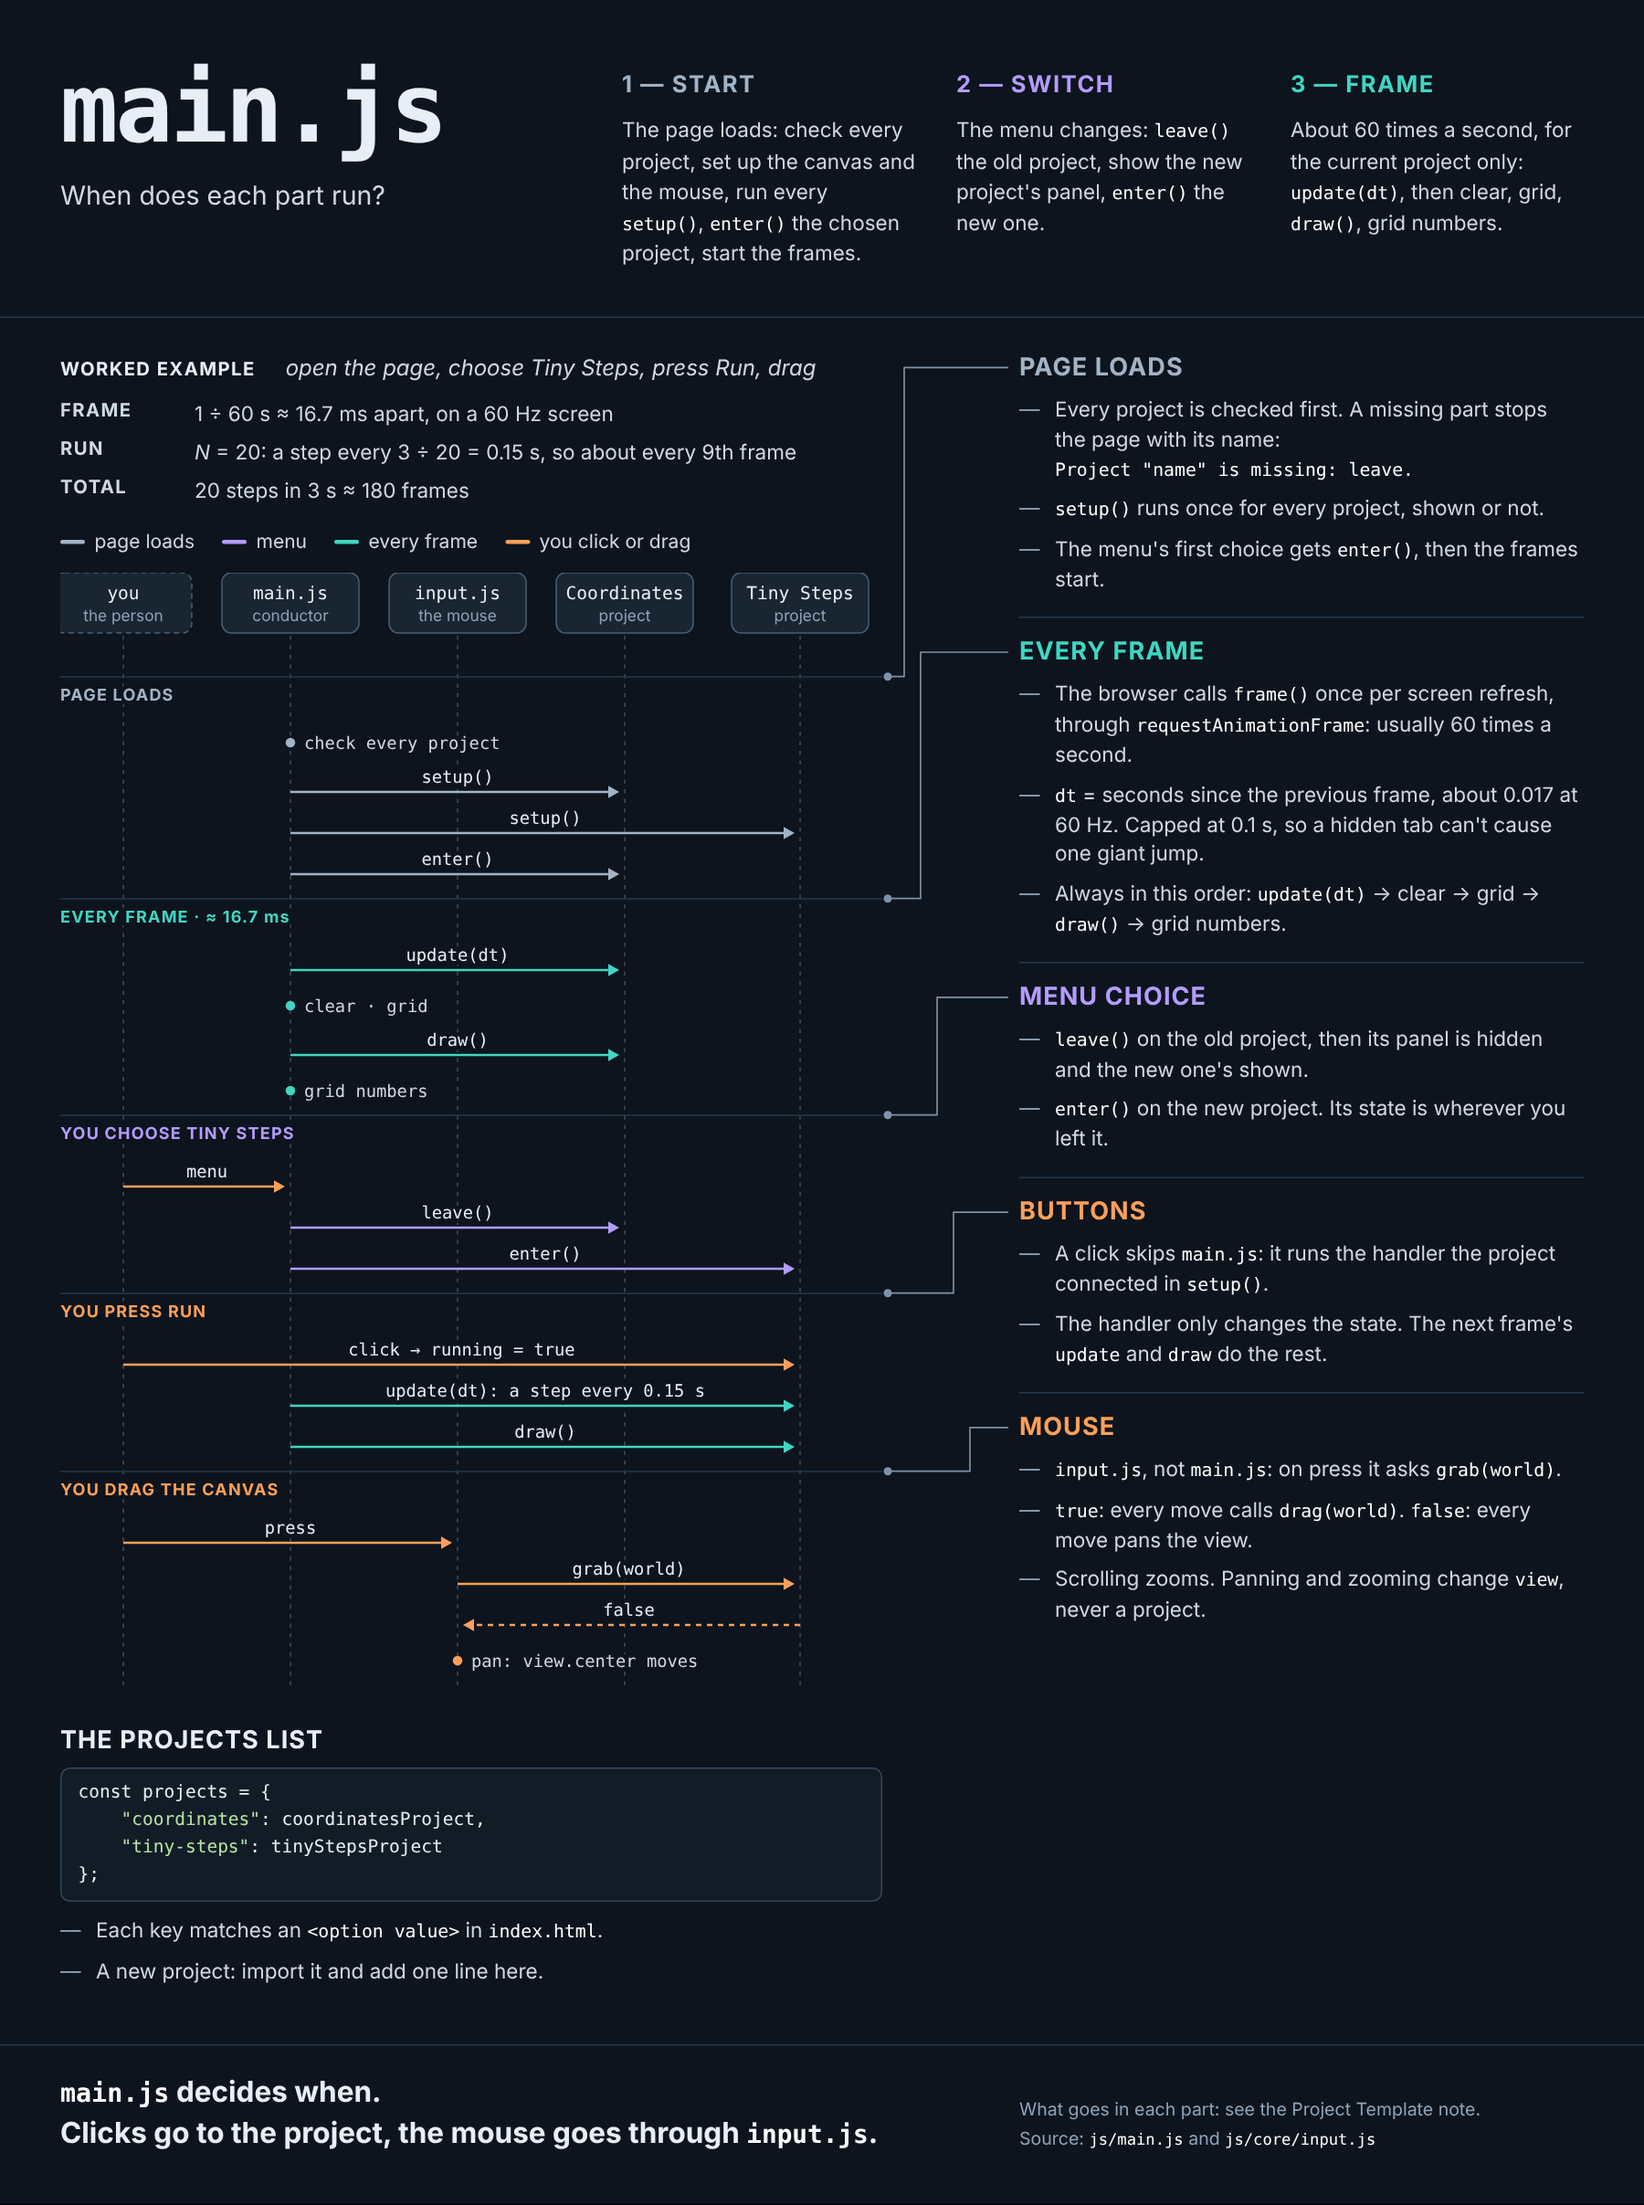
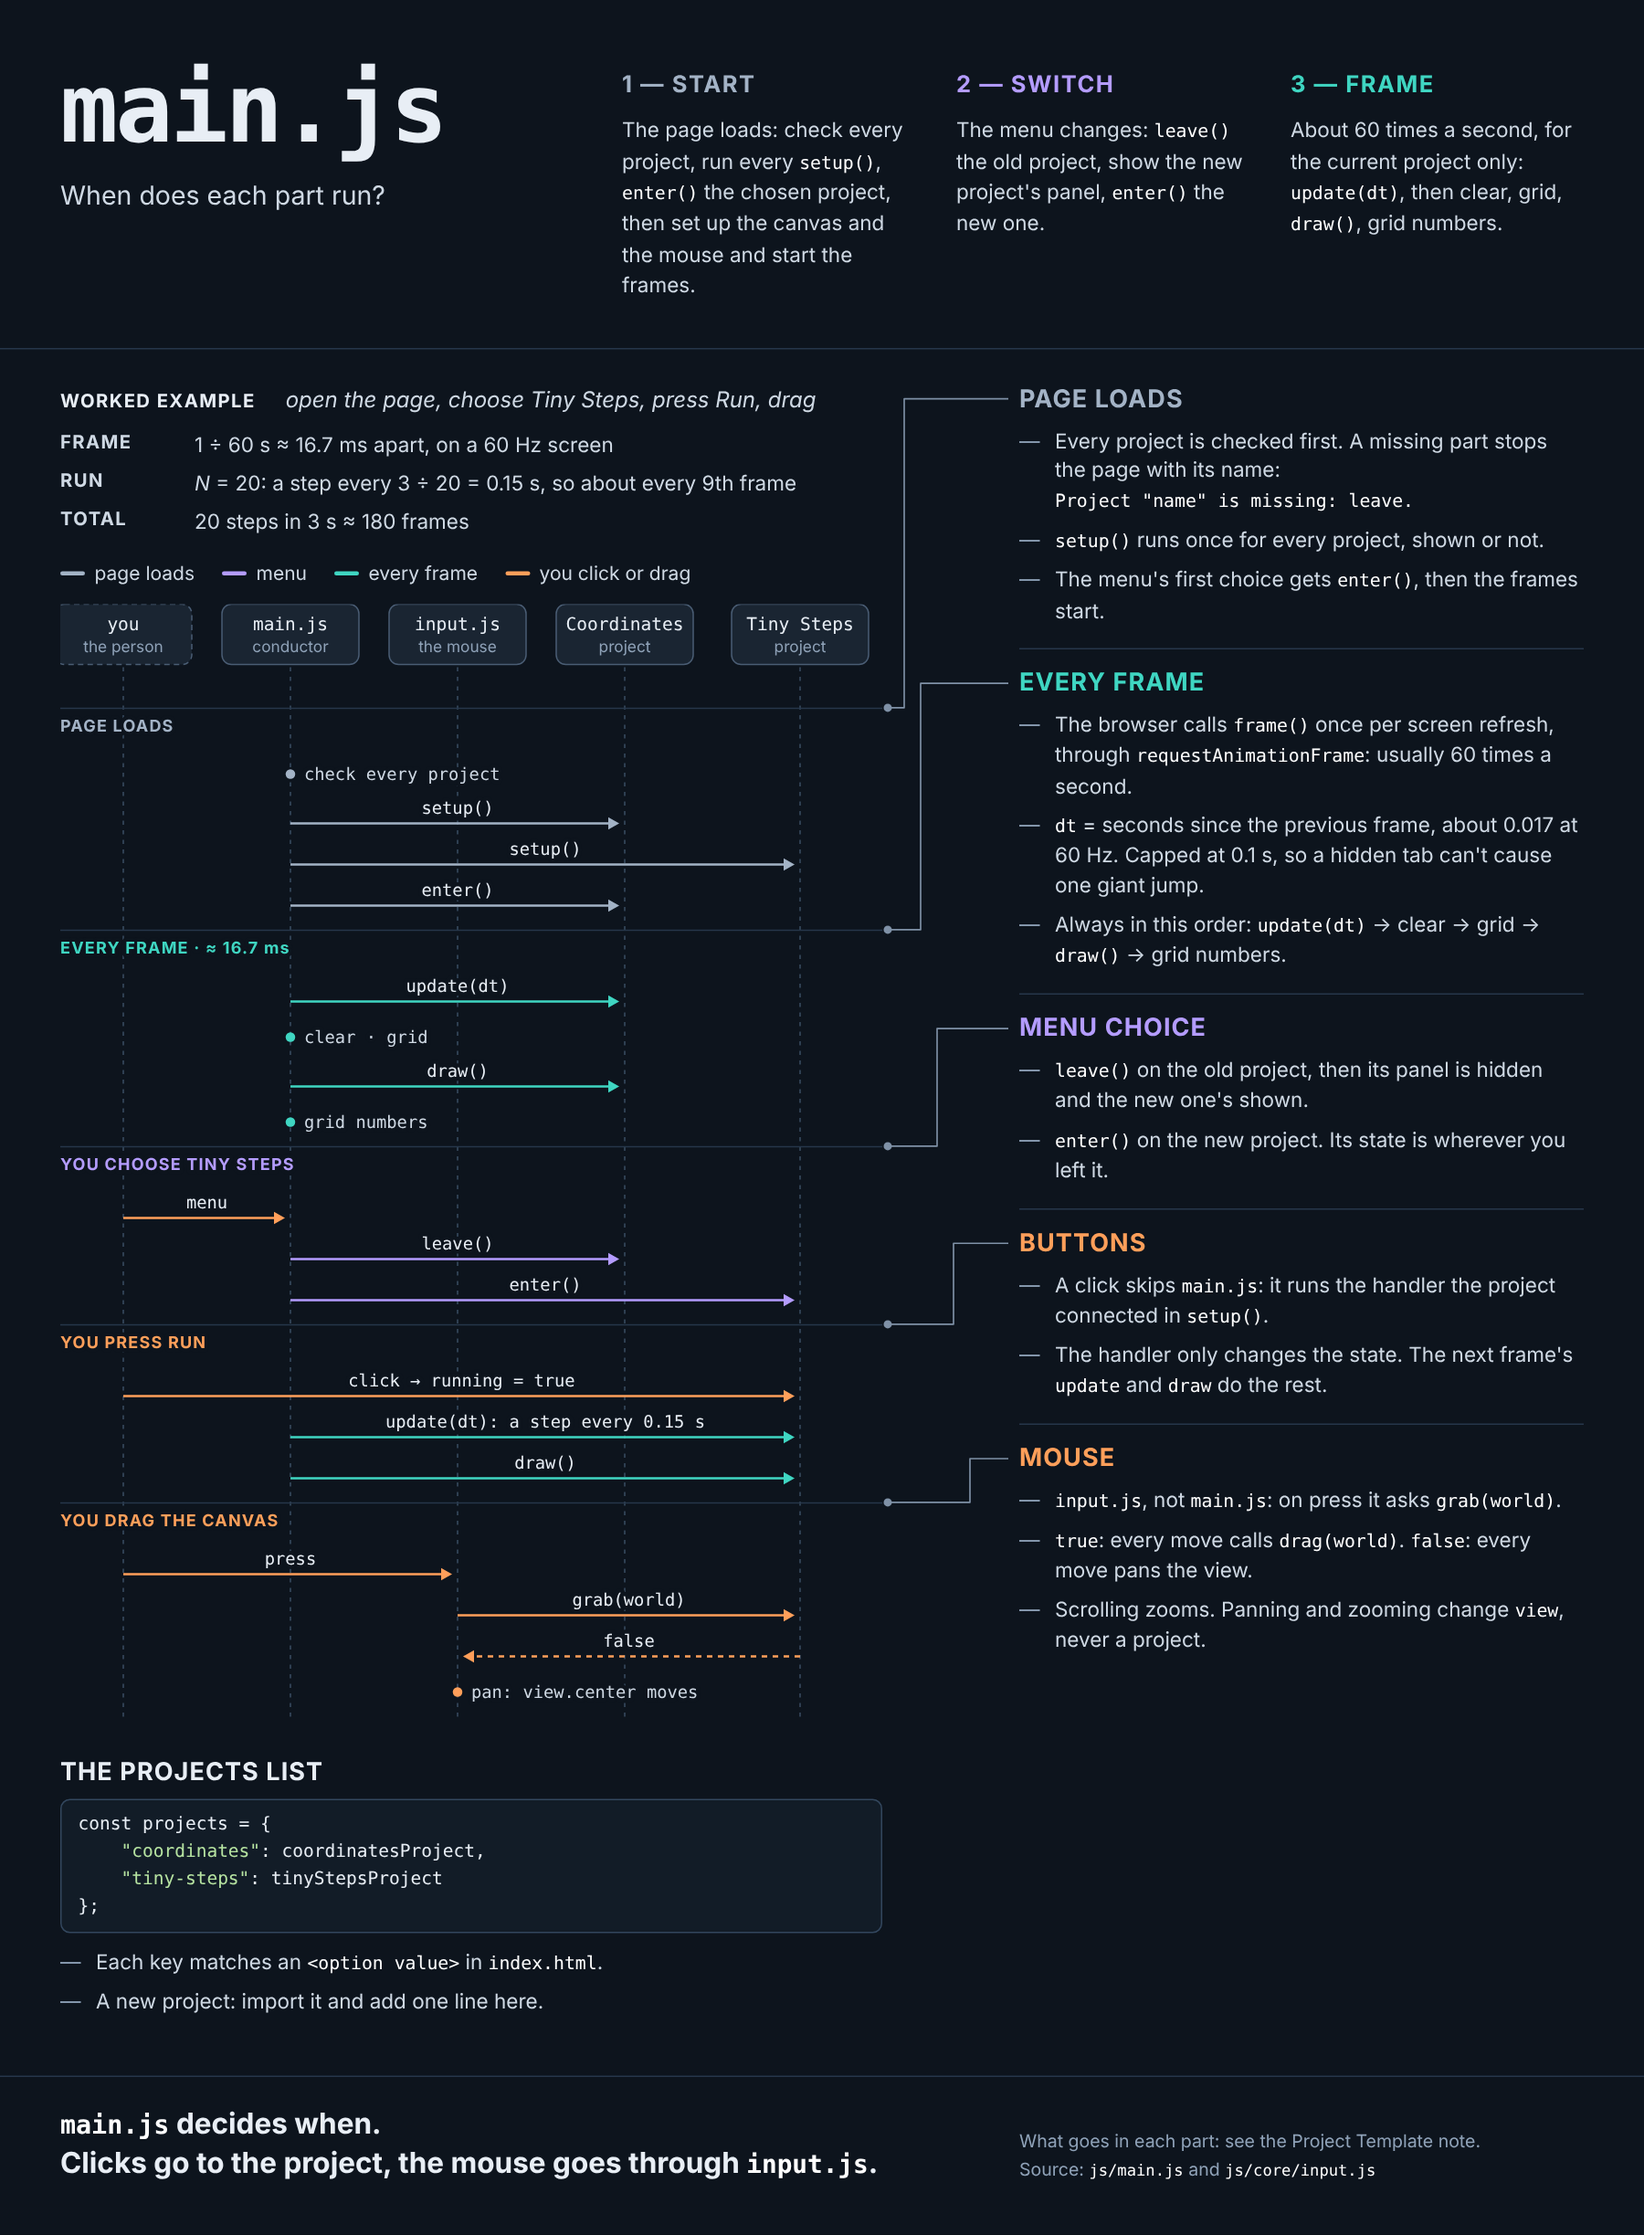
Group main.js into the projects side and the coordinate-system side
main.js now has two labelled groups of small functions:
startProjects / chooseProject / updateProject / drawProject, and
startCoordinateSystem / drawPaperBelow / drawPaperAbove. The frame
reads as updateProject, drawPaperBelow, drawProject, drawPaperAbove.
The resize listener moves into startCoordinateSystem, and setupInput
gets the named function currentProject. Behaviour is unchanged.

Claude-Session: https://claude.ai/code/session_01KSEfZkrvfQvbbosLT1JBtV

diff --git a/Math Visualisation/js/main.js b/Math Visualisation/js/main.js
@@ -1,19 +1,19 @@
 "use strict";
 
-// main.js — runs the lifecycle.
+// main.js — runs the program.
 //
-// Every project has the same eight parts (see projects/project-template.js).
-// This file decides WHEN each one is called. A project never calls its own
-// lifecycle functions, never redraws, and never starts its own timer.
+// It looks after two things and keeps them apart:
 //
-//   WHEN                    WHAT IS CALLED
-//   page loads              setup()        every project, once
-//   a menu choice           leave()        the old project
-//                           enter()        the new project
-//   every frame (~60 / s)   update(dt)     the current project: change the state
-//                           clear → grid → draw() → grid numbers
-//   mouse pressed           grab(world)    the current project (from input.js)
-//   mouse moved             drag(world)    the current project (from input.js)
+//   1. THE PROJECTS (projects/)        2. THE COORDINATE SYSTEM (core/)
+//      startProjects()                    startCoordinateSystem()
+//      chooseProject(name)                drawPaperBelow()
+//      updateProject(dt)                  drawPaperAbove()
+//      drawProject()
+//
+// 3. Every frame weaves the two together, bottom to top:
+//      updateProject(dt) → drawPaperBelow() → drawProject() → drawPaperAbove()
+//
+// What goes inside a project's parts: see projects/project-template.js.
 
 import { setupView, resizeView, clearCanvas } from "./core/view.js";
 import { drawGrid, drawGridLabels } from "./core/grid.js";
@@ -21,16 +21,22 @@ import { setupInput } from "./core/input.js";
 import { coordinatesProject } from "./projects/coordinates.js";
 import { tinyStepsProject } from "./projects/tiny-steps.js";
 
-// ── The projects ──────────────────────────────────────────────
+// ══ 1. The projects ═══════════════════════════════════════════
+
 // Each key must match an <option value="..."> in index.html.
 const projects = {
     "coordinates": coordinatesProject,
     "tiny-steps": tinyStepsProject
 };
 
-// ── The contract ──────────────────────────────────────────────
 // Every project must have all of these, even if some are empty.
 const REQUIRED_FUNCTIONS = ["setup", "enter", "update", "draw", "leave", "grab", "drag"];
+
+let current = null;
+
+function currentProject() {
+    return current;
+}
 
 function checkProject(name, project) {
     const missing = REQUIRED_FUNCTIONS.filter((key) => typeof project[key] !== "function");
@@ -44,9 +50,18 @@ function checkProject(name, project) {
     }
 }
 
-// ── A menu choice ─────────────────────────────────────────────
-let current = null;
+// Page loads: check every project, set each one up once,
+// connect the menu, and show the project the menu starts on.
+function startProjects() {
+    for (const name in projects) checkProject(name, projects[name]);
+    for (const name in projects) projects[name].setup();
 
+    const select = document.getElementById("project-select");
+    select.addEventListener("change", () => chooseProject(select.value));
+    chooseProject(select.value);
+}
+
+// A menu choice: pause the old project, swap the panels, start the new one.
 function chooseProject(name) {
     if (current !== null) current.leave();
     current = projects[name];
@@ -60,7 +75,37 @@ function chooseProject(name) {
     current.enter();
 }
 
-// ── Every frame ───────────────────────────────────────────────
+function updateProject(dt) {
+    current.update(dt);
+}
+
+function drawProject() {
+    current.draw();
+}
+
+// ══ 2. The coordinate system ══════════════════════════════════
+
+// Page loads: size the canvas, connect the mouse, follow window resizes.
+function startCoordinateSystem() {
+    setupView(document.getElementById("canvas"));
+    resizeView();
+    setupInput(currentProject);
+    window.addEventListener("resize", resizeView);
+}
+
+// The paper under the drawing: an empty canvas with grid lines and axes.
+function drawPaperBelow() {
+    clearCanvas();
+    drawGrid();
+}
+
+// The numbers on top, so a drawing never covers them.
+function drawPaperAbove() {
+    drawGridLabels();
+}
+
+// ══ 3. Every frame ════════════════════════════════════════════
+
 let lastTime = null;
 
 function frame(time) {
@@ -69,29 +114,16 @@ function frame(time) {
     const dt = lastTime === null ? 0 : Math.min((time - lastTime) / 1000, 0.1);
     lastTime = time;
 
-    current.update(dt);
-
-    clearCanvas();
-    drawGrid();
-    current.draw();
-    drawGridLabels();
+    updateProject(dt);
+    drawPaperBelow();
+    drawProject();
+    drawPaperAbove();
 
     requestAnimationFrame(frame);
 }
 
-// ── Page loads ────────────────────────────────────────────────
-for (const name in projects) checkProject(name, projects[name]);
+// ══ Start ═════════════════════════════════════════════════════
 
-setupView(document.getElementById("canvas"));
-resizeView();
-setupInput(() => current);
-
-for (const name in projects) projects[name].setup();
-
-const select = document.getElementById("project-select");
-select.addEventListener("change", () => chooseProject(select.value));
-chooseProject(select.value);
-
-window.addEventListener("resize", resizeView);
-
+startProjects();
+startCoordinateSystem();
 requestAnimationFrame(frame);

diff --git a/Math Visualisation/docs/main-note.html b/Math Visualisation/docs/main-note.html
@@ -123,7 +123,7 @@
         </div>
         <div class="step load">
             <h2>1 — START</h2>
-            <p>The page loads: check every project, set up the canvas and the mouse, run every <code>setup()</code>, <code>enter()</code> the chosen project, start the frames.</p>
+            <p>The page loads: check every project, run every <code>setup()</code>, <code>enter()</code> the chosen project, then set up the canvas and the mouse and start the frames.</p>
         </div>
         <div class="step menu">
             <h2>2 — SWITCH</h2>
